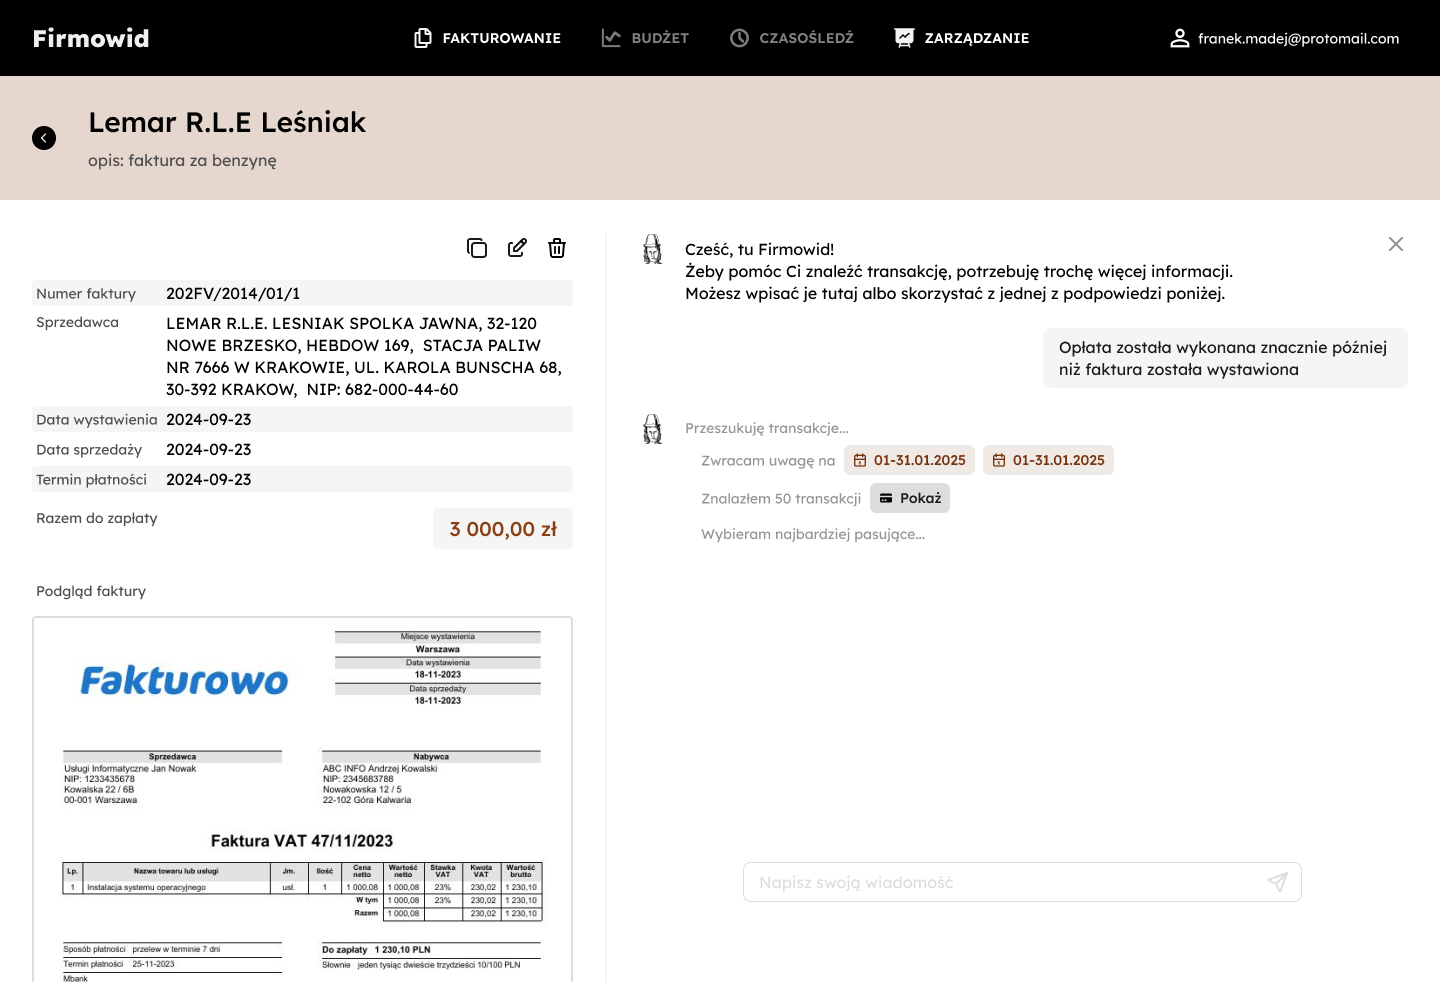
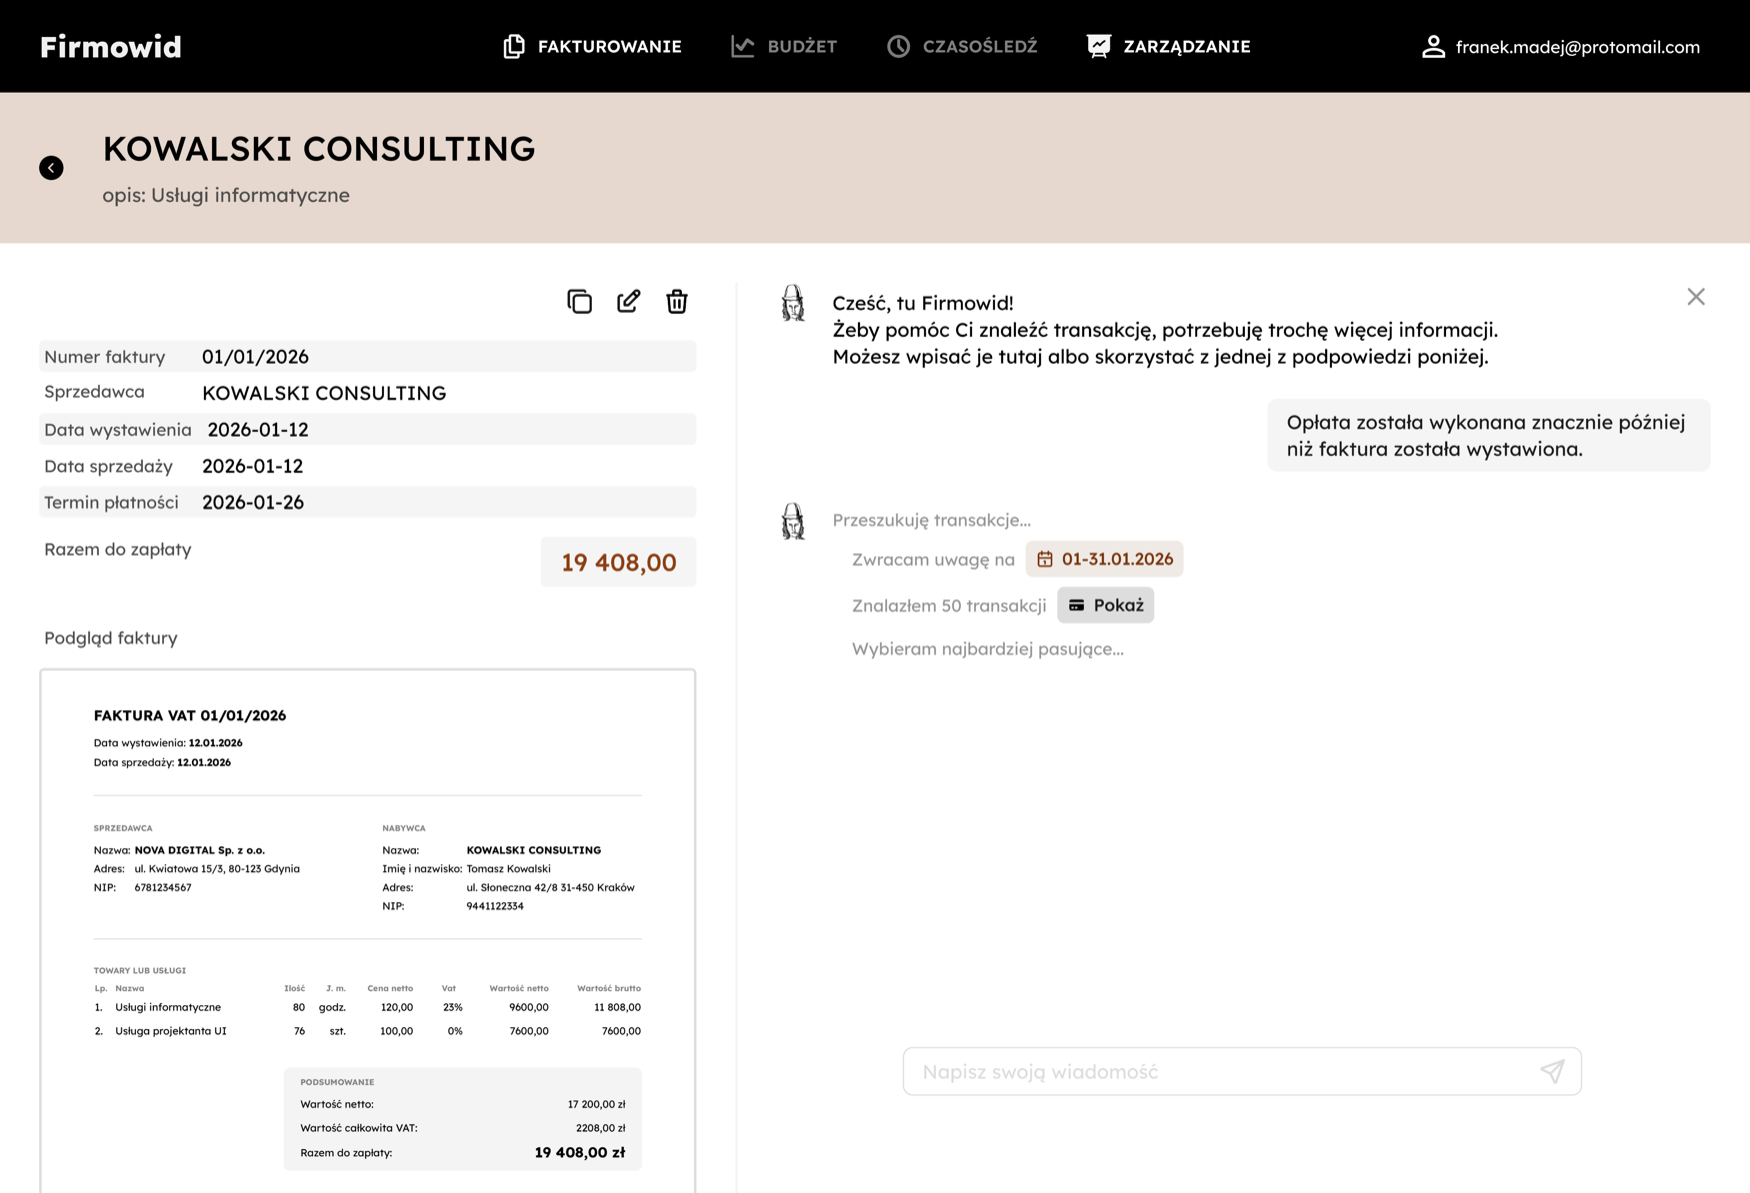
fix: desktop landing

diff --git a/assets/js/hooks/navbar_scroll.js b/assets/js/hooks/navbar_scroll.js
@@ -50,8 +50,8 @@ export const NavbarScroll = {
       navbarContainer.classList.add("bg-white");
       navbarContainer.classList.remove("bg-black");
       navbarLinks.forEach(link => {
-        link.classList.add("text-white", "hover:text-grey-600");
-        link.classList.remove("text-black", "hover:text-grey-700");
+        link.classList.add("text-white");
+        link.classList.remove("text-black");
       });
       navbarLogo.classList.add("text-white");
       navbarLogo.classList.remove("text-black");
@@ -60,8 +60,8 @@ export const NavbarScroll = {
       navbarContainer.classList.remove("bg-white");
       navbarContainer.classList.add("bg-black");
       navbarLinks.forEach(link => {
-        link.classList.remove("text-white", "hover:text-grey-600");
-        link.classList.add("text-black", "hover:text-grey-700");
+        link.classList.remove("text-white");
+        link.classList.add("text-black");
       });
       navbarLogo.classList.remove("text-white");
       navbarLogo.classList.add("text-black");
